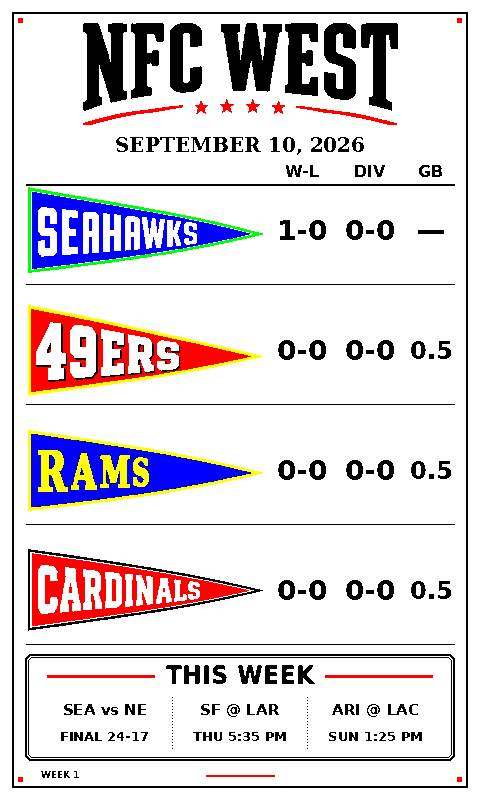
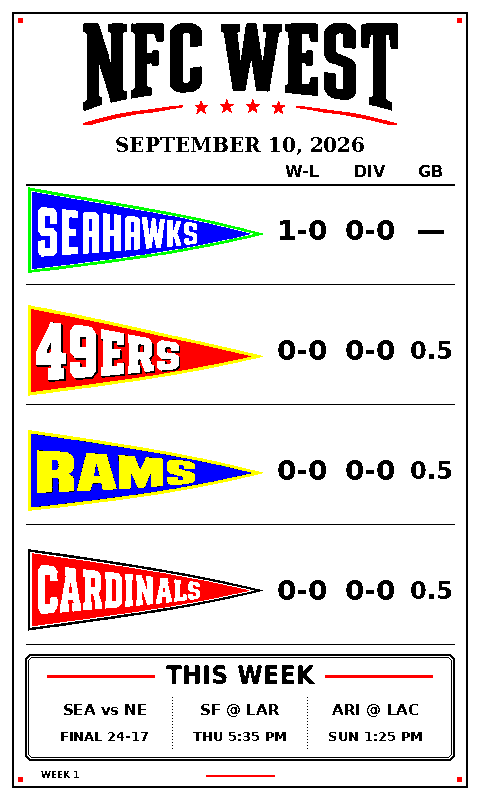
PR previews: original RAMS letterforms, upright (not for merge)
Claude-Session: https://claude.ai/code/session_013XpjxEC718UAg7hLN6QLJp

Changed region(s): [[0.0625, 0.5625, 0.4062, 0.625]]

diff --git a/previews/deshear_rams.py b/previews/deshear_rams.py
@@ -1,0 +1,59 @@
+"""Make the original RAMS lettering in text-only-pennants.png upright.
+
+Keeps the sheet's own RAMS letterforms: the italic yellow letters inside the
+LAR pennant's blue field are lifted out, each pixel row is shifted
+horizontally to undo the ~19.7 degree oblique (a pure shear, so no resampling
+and no new colours), and the result is pasted back on a clean blue field.
+Usage: deshear_rams.py ORIGINAL_SHEET OUT_SHEET [SHIFT_X SHIFT_Y]
+"""
+import sys
+import numpy as np
+from PIL import Image
+
+SRC, OUT = sys.argv[1], sys.argv[2]
+SHIFT_X = int(sys.argv[3]) if len(sys.argv) > 3 else 0
+SHIFT_Y = int(sys.argv[4]) if len(sys.argv) > 4 else 0
+BOX = (27, 809, 1004, 1146)                 # LAR crop used by load_pennant()
+BLUE, YELLOW = (0, 0, 255), (255, 255, 0)
+
+sheet = Image.open(SRC).convert("RGB")
+a = np.array(sheet.crop(BOX))
+yellow = (a[..., 0] == 255) & (a[..., 1] == 255) & (a[..., 2] == 0)
+blue = (a[..., 0] == 0) & (a[..., 1] == 0) & (a[..., 2] == 255)
+h, w = blue.shape
+top = np.array([np.flatnonzero(blue[:, x]).min() if blue[:, x].any() else -1 for x in range(w)])
+bot = np.array([np.flatnonzero(blue[:, x]).max() if blue[:, x].any() else -1 for x in range(w)])
+
+letters = np.zeros_like(yellow)
+for x in range(w):
+    if top[x] >= 0:
+        letters[top[x]:bot[x] + 1, x] = yellow[top[x]:bot[x] + 1, x]
+        a[top[x]:bot[x] + 1, x] = BLUE       # clean field
+
+# Shear from the R stem's left edge: x drifts left as y increases.
+ys = np.arange(100, 250)
+edge = np.array([np.flatnonzero(letters[y, :200]).min() for y in ys])
+k = -np.polyfit(ys, edge, 1)[0]
+rows = np.flatnonzero(letters.any(axis=1))
+pivot = (rows.min() + rows.max()) / 2    # letters stay centred where they were
+upright = np.zeros_like(letters)
+for y in rows:
+    dx = int(round(-k * (pivot - y))) + SHIFT_X
+    src = letters[y]
+    if dx >= 0:
+        upright[y, dx:] = src[:w - dx]
+    else:
+        upright[y, :w + dx] = src[-dx:]
+upright = np.roll(upright, SHIFT_Y, axis=0)   # rows near the edges are empty
+print(f"shear k={k:.4f} ({np.degrees(np.arctan(k)):.1f} deg), pivot y={pivot:.0f}")
+
+# Clearance from the field's angled edges and the hoist.
+ly, lx = np.nonzero(upright)
+inside = (top[lx] >= 0) & (ly >= top[lx]) & (ly <= bot[lx])
+assert inside.all(), "letters left the blue field"
+print("min clearance top", (ly - top[lx]).min(), "bottom", (bot[lx] - ly).min(),
+      "bbox", lx.min(), ly.min(), lx.max(), ly.max())
+
+a[upright] = YELLOW
+sheet.paste(Image.fromarray(a), BOX[:2])
+sheet.save(OUT, format="PNG", optimize=True)
